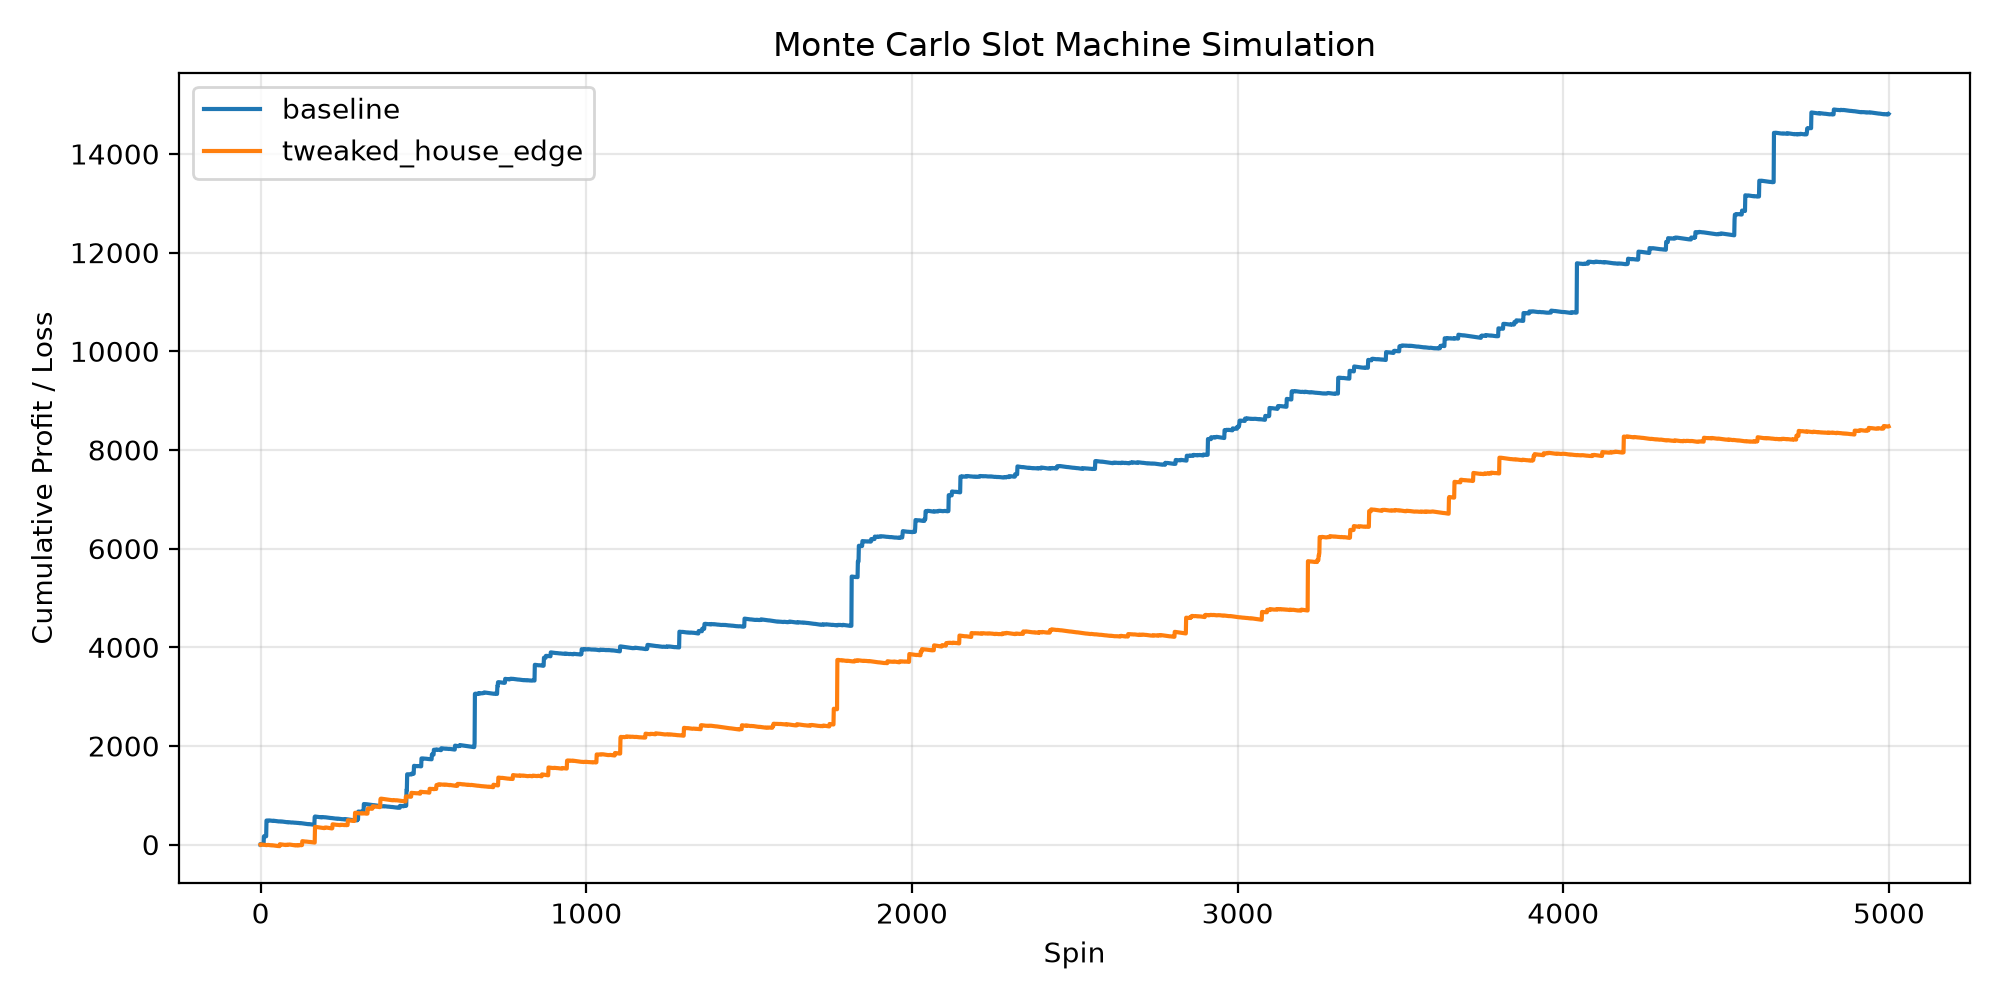
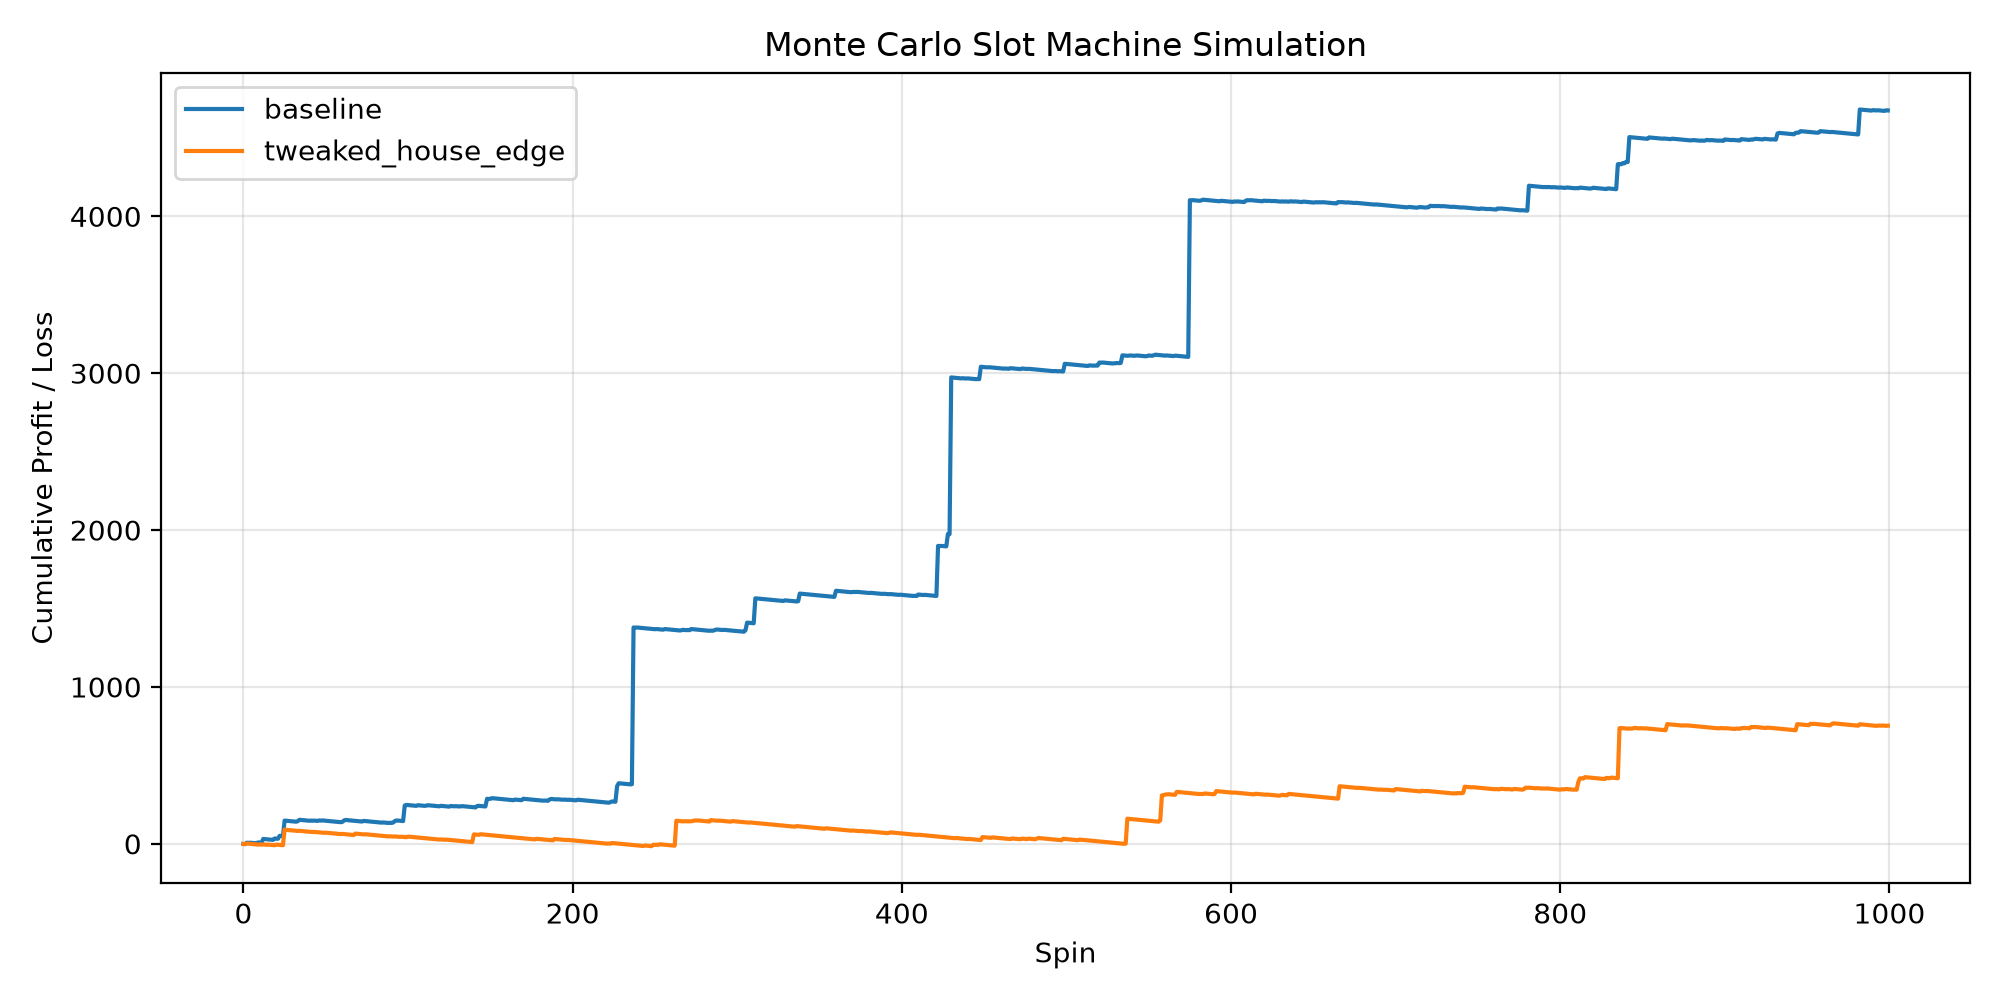
kinda has simulation

diff --git a/simulation.py b/simulation.py
@@ -59,10 +59,11 @@ def build_slot_machine(wild_weight: float = 1.0, cherry_weight: float = 1.0):
         for name in REEL_STRIP:
             weight = wild_weight if name == "w01" else cherry_weight if name == "s05" else 1.0
             weighted_symbols.extend([name] * int(round(weight * 10)))
+        random.shuffle(weighted_symbols)
         symbols = [Symbol(name, MULTIPLIERS[name]) for name in weighted_symbols]
 
     reels = [Reel(symbols) for _ in range(3)]
-    player = Player(100000.0)
+    player = Player(100.0)
     return SlotMachine(reels, player, [0, 0, 0])
 
 
@@ -72,7 +73,8 @@ def run_monte_carlo(runs: int, bet: float, wild_weight: float = 1.0, cherry_weig
     cumulative = 0.0
 
     for _ in range(runs):
-        machine.spin(bet)
+        if not machine.spin(bet):
+            break
         cumulative += machine.win - bet
         balances.append(cumulative)
 
@@ -105,11 +107,11 @@ def plot_results(results, output_path: Path):
 
 
 def main():
-    runs = 5000
+    runs = 1000
     bet = 1.0
 
     baseline = run_monte_carlo(runs, bet)
-    house_edge = run_monte_carlo(runs, bet, wild_weight=0.8, cherry_weight=0.9)
+    house_edge = run_monte_carlo(runs, bet, wild_weight=0.6, cherry_weight=0.6)
 
     results = {
         "baseline": baseline,

diff --git a/README.md b/README.md
@@ -1,5 +1,12 @@
 # Double Diamond Simulation
 
+## Overview
+
+This project contains a playable slot machine implemented in `main.py` and a Monte Carlo simulator in `simulation.py`.
+
+- `main.py` launches a simple Pygame slot machine UI.
+- `simulation.py` runs repeated spins and saves a performance plot to `assets/simulations/slot_simulation.png`.
+
 ## Paytable
 
 <img src="./assets/images/w01.png" alt="Description" width="70"> matches any other symbol on the payline.\
@@ -17,3 +24,71 @@ Wins with exactly two <img src="./assets/images/w01.png" alt="Description" width
 | <img src="./assets/images/s04.png" alt="Description" width="70"> |  10x  |   -    |   -    |
 | <img src="./assets/images/s05.png" alt="Description" width="70"> |  10x  |   5x   |   2x   |
 | <img src="./assets/images/s00.png" alt="Description" width="70"> |  5x   |   -    |   -    |
+
+## Setup
+
+1. Open a terminal in the project root folder.
+2. Create a virtual environment.
+
+   Windows PowerShell:
+   ```powershell
+   python -m venv .venv
+   .\.venv\Scripts\Activate.ps1
+   ```
+
+   Windows CMD:
+   ```cmd
+   python -m venv .venv
+   .\.venv\Scripts\activate
+   ```
+
+   macOS / Linux:
+   ```bash
+   python3 -m venv .venv
+   source .venv/bin/activate
+   ```
+3. Install dependencies:
+   ```bash
+   python -m pip install --upgrade pip
+   python -m pip install -r requirements.txt
+   ```
+
+## Running the program
+
+Run the playable slot machine UI:
+
+```bash
+python main.py
+```
+
+Run the Monte Carlo simulation:
+
+```bash
+python simulation.py
+```
+
+When `simulation.py` finishes, it saves a chart to:
+
+```text
+assets/simulations/slot_simulation.png
+```
+
+## Simulation output and inference
+
+The simulation chart shows profit/loss over each spin for the configured scenarios.
+
+- A rising line means the player is winning more than they bet over time.
+- A falling line means the player is losing more than they win over time.
+- Steeper drops indicate a stronger house edge.
+- If the line stays near zero, the game is closer to break-even.
+
+Use the printed summary from `simulation.py` to interpret results:
+
+- `final_balance` is the net result after all spins.
+- `mean_per_spin` is the average win/loss per spin.
+- `stddev` measures how much each spin outcome varies.
+- `min` and `max` show the worst and best observed outcomes.
+
+## Example
+
+<img src="./assets/simulations/slot_simulation.png" alt="Description" width="1000">